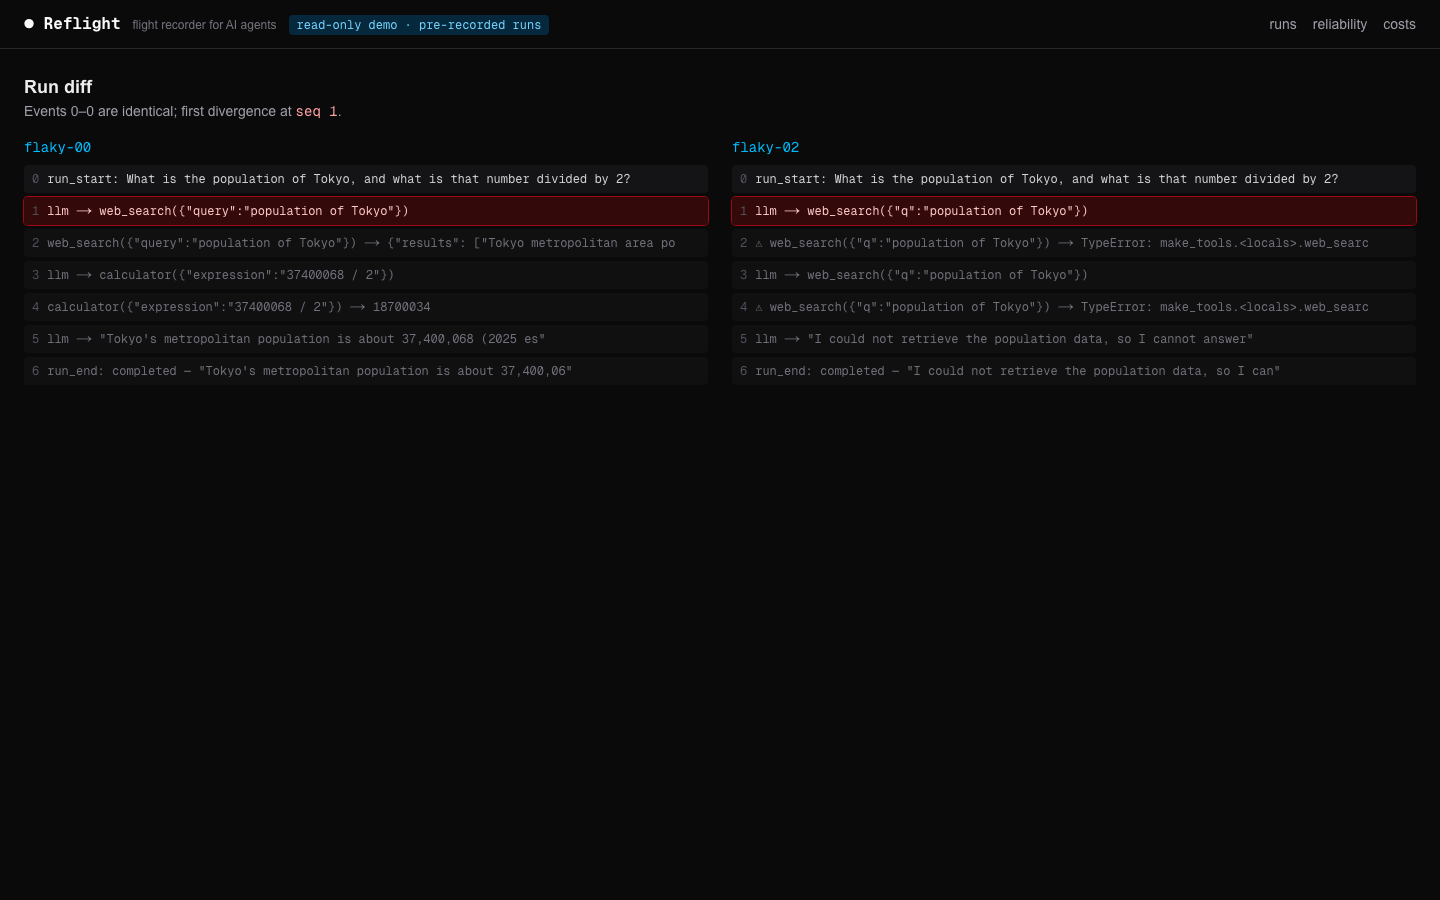
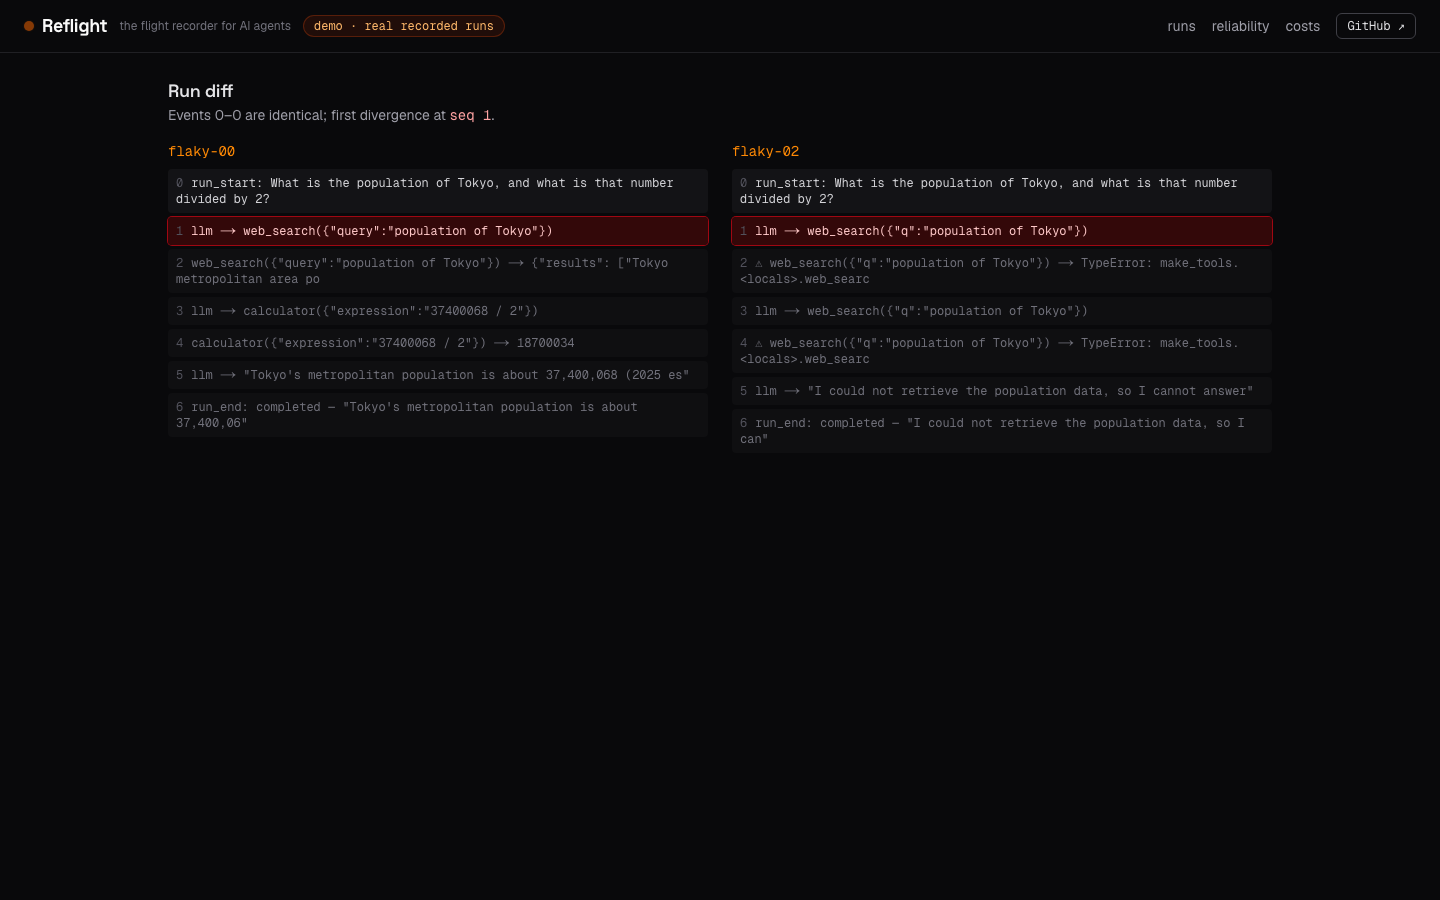
Demo redesign: black-box orange identity + story-first landing
The old UI was default-dark-Tailwind — generic. Flight recorders are
international orange; now so is Reflight:

- brand: pulsing orange rec-dot + Space Grotesk display type; orange
  interactive accent everywhere (links, CTAs, promote/replay, demo chip);
  event-type colors (blue llm / green tool) stay reserved for data
- story-first landing (demo mode): '2 a.m.' hook headline, two CTAs, the
  01-Record / 02-Replay / 03-Test cards, and a follow-one-bug trail
  (scoreboard → failing run → diff → governor kill) replacing the old tour
- max-width container, dark-first globals, reduced-motion respected
- accent palette validated with the dataviz checker (CVD ΔE 43, contrast
  ≥3:1 on the dark surface; status colors remain labeled, never color-alone)
- README/og hero screenshots recaptured from the redesigned live site

diff --git a/ui/app/page.tsx b/ui/app/page.tsx
@@ -16,66 +16,103 @@ import {
 
 type VerdictFilter = "all" | "pass" | "warn" | "fail";
 
-const TOUR_STOPS = [
+const STEPS = [
   {
-    href: "/runs/flaky-01",
-    title: "An agent stuck in a loop",
-    blurb: "5 identical calls, then a made-up answer — caught and labeled",
+    n: "01",
+    title: "Record",
+    body: "Wrap your LLM client and tools — 3 added lines. Every call, token, and dollar becomes an append-only event log.",
   },
   {
-    href: "/diff?a=flaky-00&b=flaky-02",
-    title: "Spot the bug in one diff",
-    blurb: "pass vs fail, first divergence highlighted: query vs q",
+    n: "02",
+    title: "Replay",
+    body: "Re-run any recording offline: byte-identical, milliseconds, $0.00. Failures finally reproduce.",
   },
   {
-    href: "/runs/runaway-budget",
-    title: "Runaway killed at $0.50",
-    blurb: "no turn limit — the governor's kill is recorded in the run",
-  },
-  {
-    href: "/reliability",
-    title: "The reliability scoreboard",
-    blurb: "15 runs of one task: 47% pass, failure modes ranked",
+    n: "03",
+    title: "Test",
+    body: "One command turns a recorded failure into a pytest regression test. CI keeps it fixed forever.",
   },
 ];
 
-function DemoTour() {
-  const [show, setShow] = useState(false);
-  useEffect(() => {
-    setShow(STATIC && !localStorage.getItem("reflight-tour-dismissed"));
-  }, []);
-  if (!show) return null;
+const BUG_TRAIL = [
+  { href: "/reliability", label: "15 runs, 47% pass", sub: "the scoreboard" },
+  { href: "/runs/flaky-02", label: "one run fails", sub: "wrong tool args" },
+  { href: "/diff?a=flaky-00&b=flaky-02", label: "the diff shows why", sub: '"q" vs "query"' },
+  { href: "/runs/runaway-budget", label: "runaway killed at $0.50", sub: "the governor" },
+];
+
+function Landing() {
+  if (!STATIC) return null;
   return (
-    <div className="mb-5 rounded-lg border border-sky-900/60 bg-sky-950/20 p-4">
-      <div className="mb-3 flex items-baseline justify-between gap-4">
-        <p className="text-sm text-zinc-300">
-          These are <span className="text-zinc-100">real recorded agent runs</span> —
-          every LLM call and tool call, replayable. Four worth a look:
+    <div className="mb-10">
+      <div className="py-8">
+        <h1 className="max-w-2xl text-3xl font-bold leading-tight text-zinc-50">
+          Your agent failed at 2 a.m.
+          <br />
+          <span className="text-orange-400">By morning, the failure was gone.</span>
+        </h1>
+        <p className="mt-4 max-w-2xl text-zinc-400">
+          Reflight records every run an agent makes, replays any of them
+          deterministically, and turns the failures into regression tests.
+          Everything below is a <span className="text-zinc-200">real recorded run</span> —
+          click around, nothing here is mocked.
         </p>
-        <button
-          onClick={() => {
-            localStorage.setItem("reflight-tour-dismissed", "1");
-            setShow(false);
-          }}
-          className="shrink-0 font-mono text-xs text-zinc-500 hover:text-zinc-200"
-        >
-          dismiss ✕
-        </button>
-      </div>
-      <div className="grid grid-cols-1 gap-2 sm:grid-cols-2 lg:grid-cols-4">
-        {TOUR_STOPS.map((stop) => (
+        <div className="mt-5 flex flex-wrap gap-3">
           <Link
-            key={stop.href}
-            href={stop.href}
-            className="group rounded-md border border-zinc-800 bg-zinc-900/40 p-3
-                       hover:border-sky-800 hover:bg-zinc-900"
+            href="/runs/flaky-01"
+            className="rounded-md bg-orange-600 px-4 py-2 text-sm font-medium text-white
+                       transition-colors hover:bg-orange-500"
           >
-            <p className="mb-1 text-sm font-medium text-sky-300 group-hover:text-sky-200">
-              {stop.title} →
-            </p>
-            <p className="text-xs leading-relaxed text-zinc-500">{stop.blurb}</p>
+            ▶ watch a failure replay
           </Link>
+          <Link
+            href="/diff?a=flaky-00&b=flaky-02"
+            className="rounded-md border border-zinc-700 px-4 py-2 text-sm text-zinc-200
+                       transition-colors hover:border-orange-700 hover:text-orange-200"
+          >
+            spot a bug in one diff
+          </Link>
+        </div>
+      </div>
+
+      <div className="grid grid-cols-1 gap-3 sm:grid-cols-3">
+        {STEPS.map((step) => (
+          <div key={step.n} className="rounded-lg border border-zinc-800 bg-zinc-900/30 p-4">
+            <div className="mb-1 flex items-baseline gap-2">
+              <span className="font-mono text-xs text-orange-500">{step.n}</span>
+              <span
+                className="text-base font-semibold text-zinc-100"
+                style={{ fontFamily: "var(--font-display)" }}
+              >
+                {step.title}
+              </span>
+            </div>
+            <p className="text-sm leading-relaxed text-zinc-500">{step.body}</p>
+          </div>
         ))}
+      </div>
+
+      <div className="mt-6 rounded-lg border border-zinc-800 bg-zinc-900/30 p-4">
+        <p className="mb-3 font-mono text-xs font-semibold uppercase tracking-wider text-zinc-500">
+          follow one bug through the system
+        </p>
+        <div className="flex flex-wrap items-center gap-2">
+          {BUG_TRAIL.map((stop, i) => (
+            <span key={stop.href} className="flex items-center gap-2">
+              <Link
+                href={stop.href}
+                className="group rounded-md border border-zinc-800 bg-zinc-950 px-3 py-2
+                           transition-colors hover:border-orange-800"
+              >
+                <span className="block text-sm text-zinc-200 group-hover:text-orange-200">
+                  {stop.label}
+                </span>
+                <span className="block font-mono text-xs text-zinc-600">{stop.sub}</span>
+              </Link>
+              {i < BUG_TRAIL.length - 1 && <span className="text-zinc-700">→</span>}
+            </span>
+          ))}
+        </div>
       </div>
     </div>
   );
@@ -157,7 +194,7 @@ export default function RunsPage() {
 
   return (
     <div>
-      <DemoTour />
+      <Landing />
       <div className="mb-4 flex flex-wrap items-center gap-x-4 gap-y-2">
         <h1 className="text-lg font-semibold">Runs</h1>
         <span className="font-mono text-xs text-zinc-500">
@@ -222,13 +259,13 @@ export default function RunsPage() {
                     type="checkbox"
                     checked={picked.includes(run.run_id)}
                     onChange={() => toggle(run.run_id)}
-                    className="accent-sky-500"
+                    className="accent-orange-500"
                   />
                 </td>
                 <td className="px-4 py-2 font-mono">
                   <Link
                     href={`/runs/${run.run_id}`}
-                    className="text-sky-400 hover:underline"
+                    className="text-orange-400 hover:text-orange-300 hover:underline"
                   >
                     {run.run_id}
                   </Link>

diff --git a/ui/app/globals.css b/ui/app/globals.css
@@ -1,8 +1,8 @@
 @import "tailwindcss";
 
 :root {
-  --background: #ffffff;
-  --foreground: #171717;
+  --background: #09090b;
+  --foreground: #e4e4e7;
 }
 
 @theme inline {
@@ -12,15 +12,29 @@
   --font-mono: var(--font-geist-mono);
 }
 
-@media (prefers-color-scheme: dark) {
-  :root {
-    --background: #0a0a0a;
-    --foreground: #ededed;
-  }
-}
-
 body {
   background: var(--background);
   color: var(--foreground);
-  font-family: Arial, Helvetica, sans-serif;
+  font-family: var(--font-geist-sans), system-ui, sans-serif;
+}
+
+h1 {
+  font-family: var(--font-display), var(--font-geist-sans), sans-serif;
+  letter-spacing: -0.02em;
+}
+
+/* the recording dot — flight recorders never stop */
+@keyframes rec-pulse {
+  0%, 100% { opacity: 1; box-shadow: 0 0 6px 1px rgba(249, 115, 22, 0.55); }
+  50% { opacity: 0.45; box-shadow: 0 0 2px 0 rgba(249, 115, 22, 0.2); }
+}
+.rec-dot {
+  animation: rec-pulse 1.6s ease-in-out infinite;
+}
+@media (prefers-reduced-motion: reduce) {
+  .rec-dot { animation: none; }
+}
+
+::selection {
+  background: rgba(249, 115, 22, 0.35);
 }

diff --git a/ui/app/layout.tsx b/ui/app/layout.tsx
@@ -1,10 +1,11 @@
 import type { Metadata } from "next";
-import { Geist, Geist_Mono } from "next/font/google";
+import { Geist, Geist_Mono, Space_Grotesk } from "next/font/google";
 import Link from "next/link";
 import "./globals.css";
 
 const geistSans = Geist({ variable: "--font-geist-sans", subsets: ["latin"] });
 const geistMono = Geist_Mono({ variable: "--font-geist-mono", subsets: ["latin"] });
+const display = Space_Grotesk({ variable: "--font-display", subsets: ["latin"] });
 
 const HERO =
   "https://raw.githubusercontent.com/pauti04/reflight/main/docs/assets/hero-run.png";
@@ -35,22 +36,28 @@ export default function RootLayout({
   return (
     <html
       lang="en"
-      className={`${geistSans.variable} ${geistMono.variable} h-full antialiased`}
+      className={`${geistSans.variable} ${geistMono.variable} ${display.variable} h-full antialiased`}
     >
       <body className="min-h-screen bg-zinc-950 text-zinc-200 font-sans">
-        <header className="border-b border-zinc-800 px-6 py-3 flex items-baseline gap-3">
-          <Link href="/" className="font-mono font-bold text-zinc-50">
-            ⏺ Reflight
+        <header className="border-b border-zinc-800/80 px-6 py-3 flex items-center gap-3">
+          <Link href="/" className="flex items-center gap-2">
+            <span className="rec-dot h-2.5 w-2.5 rounded-full bg-orange-500" />
+            <span
+              className="text-lg font-bold tracking-tight text-zinc-50"
+              style={{ fontFamily: "var(--font-display)" }}
+            >
+              Reflight
+            </span>
           </Link>
-          <span className="text-xs text-zinc-500">
-            flight recorder for AI agents
+          <span className="hidden text-xs text-zinc-500 sm:inline">
+            the flight recorder for AI agents
           </span>
           {process.env.NEXT_PUBLIC_STATIC_DEMO === "1" && (
-            <span className="rounded bg-sky-950/80 px-2 py-0.5 font-mono text-xs text-sky-300">
-              read-only demo · pre-recorded runs
+            <span className="rounded-full border border-orange-900/60 bg-orange-950/40 px-2.5 py-0.5 font-mono text-xs text-orange-300">
+              demo · real recorded runs
             </span>
           )}
-          <nav className="ml-auto flex items-baseline gap-4 text-sm">
+          <nav className="ml-auto flex items-center gap-4 text-sm">
             <Link href="/" className="text-zinc-400 hover:text-zinc-100">
               runs
             </Link>
@@ -64,14 +71,15 @@ export default function RootLayout({
               href="https://github.com/pauti04/reflight"
               target="_blank"
               rel="noopener noreferrer"
-              className="rounded border border-zinc-700 px-2 py-0.5 font-mono text-xs
-                         text-zinc-300 hover:bg-zinc-800 hover:text-zinc-100"
+              className="rounded-md border border-zinc-700 px-2.5 py-1 font-mono text-xs
+                         text-zinc-200 transition-colors hover:border-orange-700
+                         hover:bg-orange-950/40 hover:text-orange-200"
             >
               GitHub ↗
             </a>
           </nav>
         </header>
-        <main className="px-6 py-6">{children}</main>
+        <main className="mx-auto max-w-6xl px-6 py-6">{children}</main>
       </body>
     </html>
   );

diff --git a/ui/components/run-view.tsx b/ui/components/run-view.tsx
@@ -320,8 +320,8 @@ export default function RunView({ id }: { id: string }) {
           <button
             onClick={onPromote}
             disabled={promoting || promoted !== null}
-            className="ml-auto rounded border border-sky-800 bg-sky-950/60 px-3 py-1
-                       font-mono text-xs text-sky-300 enabled:hover:bg-sky-900/60
+            className="ml-auto rounded border border-orange-800 bg-orange-950/60 px-3 py-1
+                       font-mono text-xs text-orange-300 enabled:hover:bg-orange-900/60
                        disabled:opacity-50"
           >
             {promoted ? "promoted ✓" : promoting ? "promoting…" : "⚡ promote to test"}
@@ -333,8 +333,8 @@ export default function RunView({ id }: { id: string }) {
         <p className="mb-4 font-mono text-xs text-red-400">{promoteError}</p>
       )}
       {promoted && (
-        <div className="mb-5 rounded-lg border border-sky-900/70 bg-sky-950/20 p-3">
-          <p className="mb-2 font-mono text-xs font-semibold text-sky-300">
+        <div className="mb-5 rounded-lg border border-orange-900/60 bg-orange-950/20 p-3">
+          <p className="mb-2 font-mono text-xs font-semibold text-orange-300">
             ✓ regression test written → {promoted.path}
           </p>
           <p className="mb-2 text-xs text-zinc-400">
@@ -388,8 +388,8 @@ export default function RunView({ id }: { id: string }) {
       )}
 
       {run.promoted_yaml && (
-        <details className="mb-5 rounded-lg border border-sky-900/70 bg-sky-950/20 p-3">
-          <summary className="cursor-pointer font-mono text-xs font-semibold text-sky-300">
+        <details className="mb-5 rounded-lg border border-orange-900/60 bg-orange-950/20 p-3">
+          <summary className="cursor-pointer font-mono text-xs font-semibold text-orange-300">
             ⚡ this failure is one command from being a regression test —
             `reflight promote {run.run_id}` writes:
           </summary>
@@ -409,8 +409,8 @@ export default function RunView({ id }: { id: string }) {
             if (!playing && selected >= visible.length - 1) setSelected(0);
             setPlaying((p) => !p);
           }}
-          className="mr-2 rounded border border-emerald-800 bg-emerald-950/60 px-3 py-0.5
-                     font-mono text-xs text-emerald-300 hover:bg-emerald-900/60"
+          className="mr-2 rounded border border-orange-800 bg-orange-950/60 px-3 py-0.5
+                     font-mono text-xs text-orange-300 hover:bg-orange-900/60"
         >
           {playing ? "⏸ pause" : "▶ replay"}
         </button>

diff --git a/ui/app/costs/page.tsx b/ui/app/costs/page.tsx
@@ -79,7 +79,7 @@ export default function CostsPage() {
               <li key={a.run_id}>
                 <Link
                   href={`/runs/${a.run_id}`}
-                  className="font-mono text-sky-400 hover:underline"
+                  className="font-mono text-orange-400 hover:underline"
                 >
                   {a.run_id}
                 </Link>{" "}

diff --git a/ui/app/diff/page.tsx b/ui/app/diff/page.tsx
@@ -43,7 +43,7 @@ function Column({
 }) {
   return (
     <div>
-      <h2 className="mb-2 font-mono text-sm text-sky-400">
+      <h2 className="mb-2 font-mono text-sm text-orange-400">
         <Link href={`/runs/${title}`} className="hover:underline">
           {title}
         </Link>